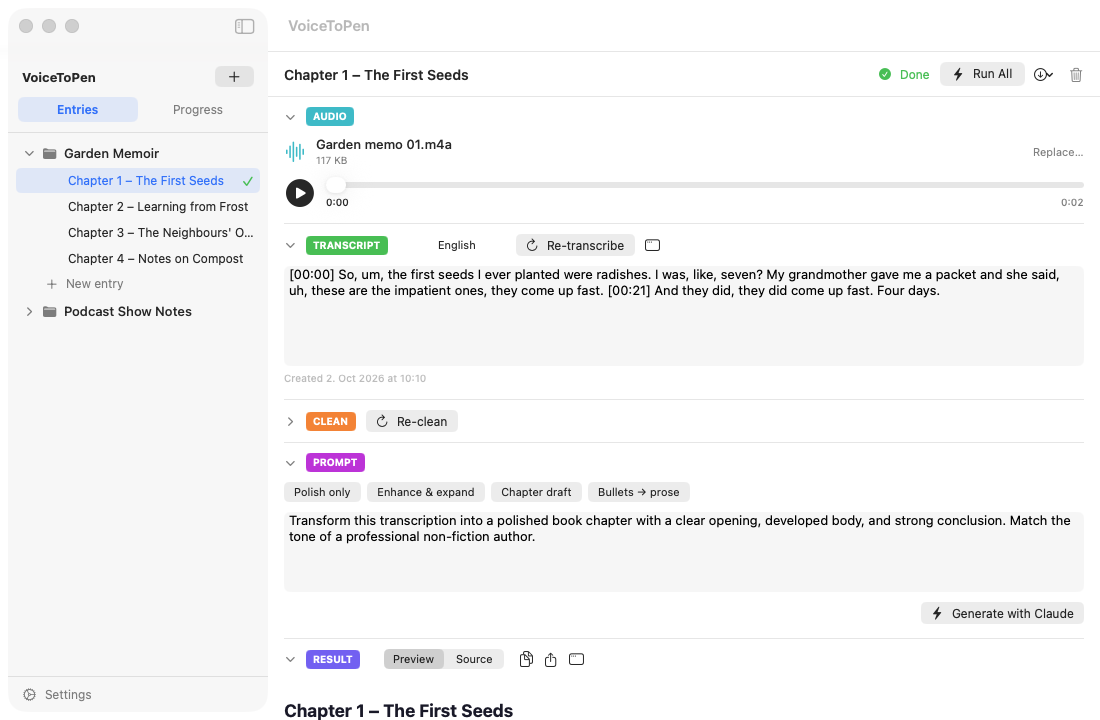
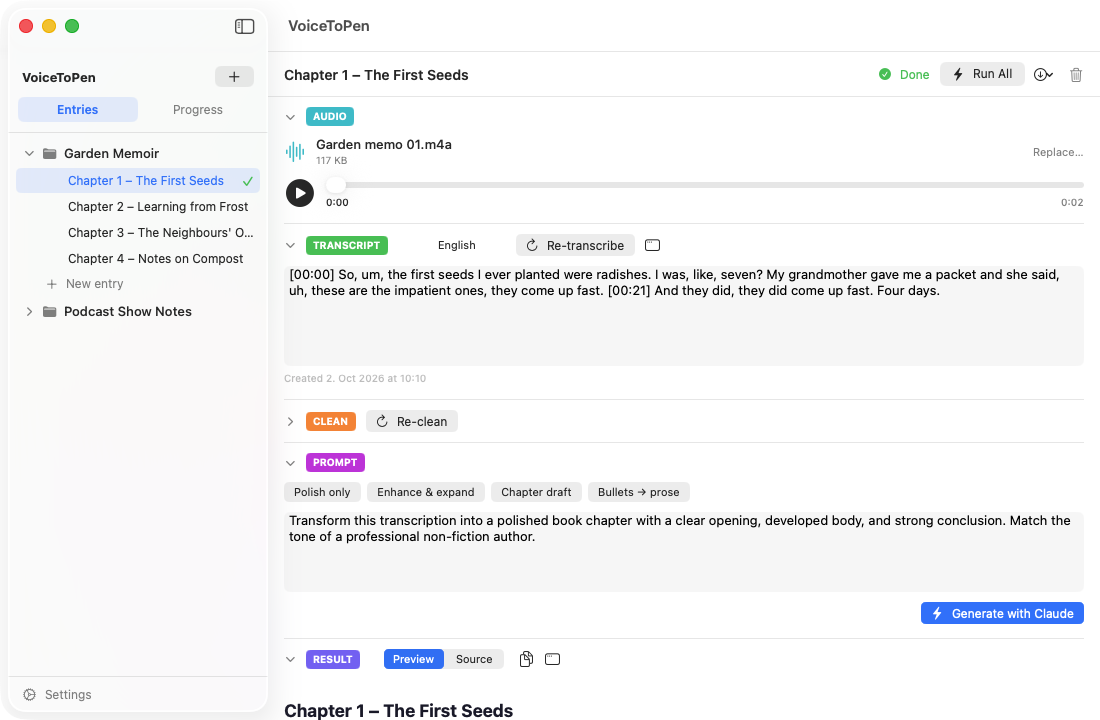
Update user guide (from voicebook claude/user-documentation-steps-a1ea03@71cd670)

diff --git a/docs/04-workflow-stages.md b/docs/04-workflow-stages.md
@@ -126,8 +126,6 @@ How it behaves:
 - For cleaning, it uses the instructions from the last time you cleaned this entry — or the default instructions if you never did.
 - If transcription fails, it stops and shows "Pipeline failed".
 
-![The Run All confirmation with the buttons Run All, Re-transcribe & Run and Cancel](images/run-all-dialog.png)
-
 > ⚠ Run All **always starts from scratch**: it re-transcribes the audio and replaces the transcript, the cleaned text and the result — including any edits. To keep your edits, run only the stage you need (for example, just **Generate with Claude**).
 
 ---
